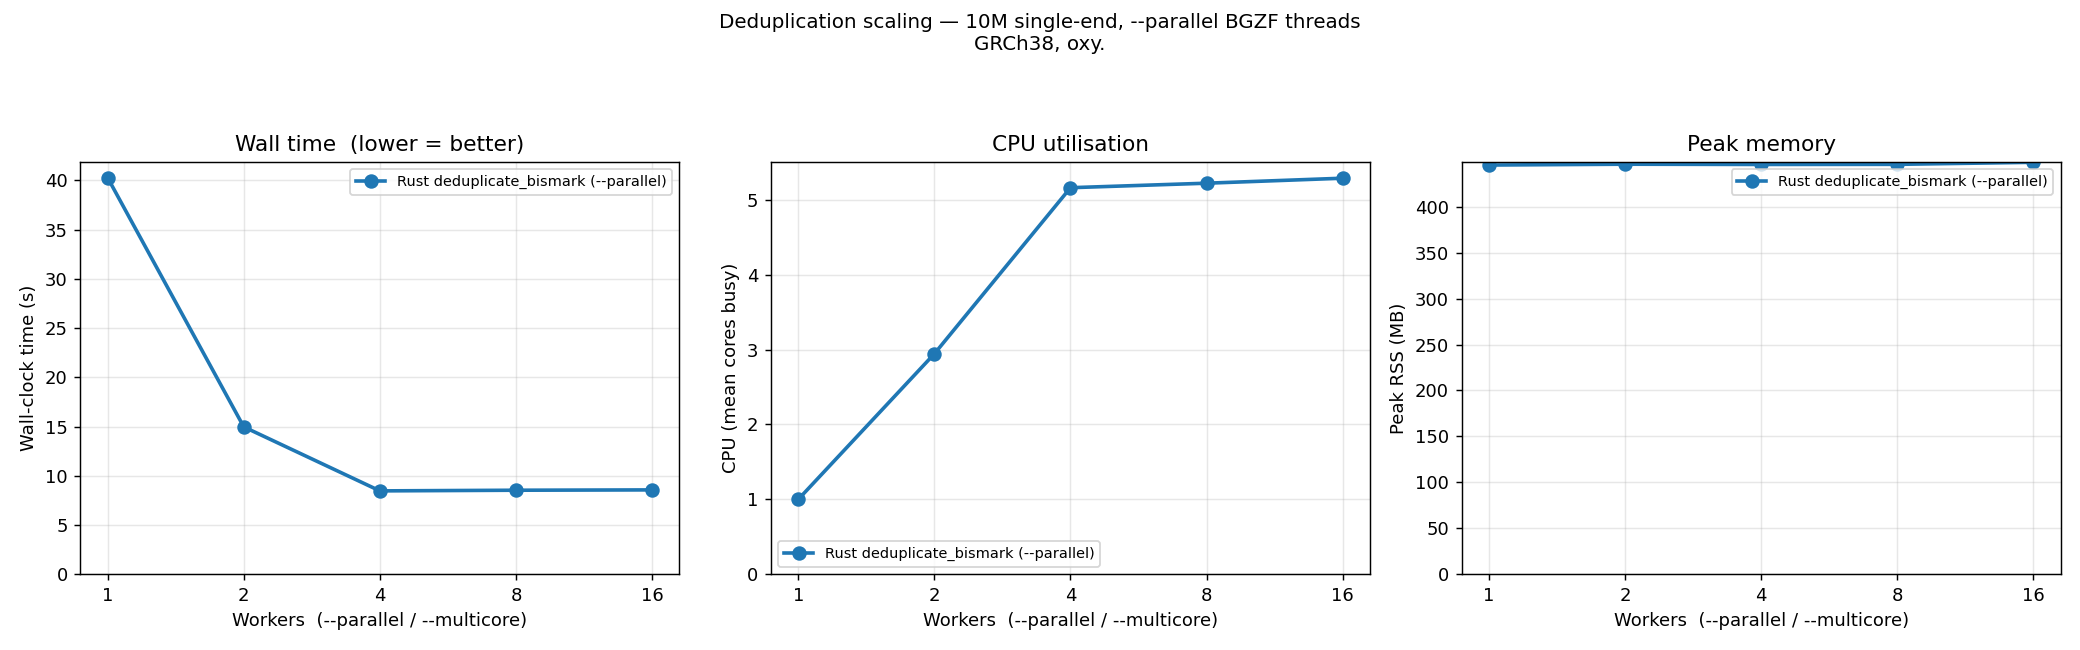
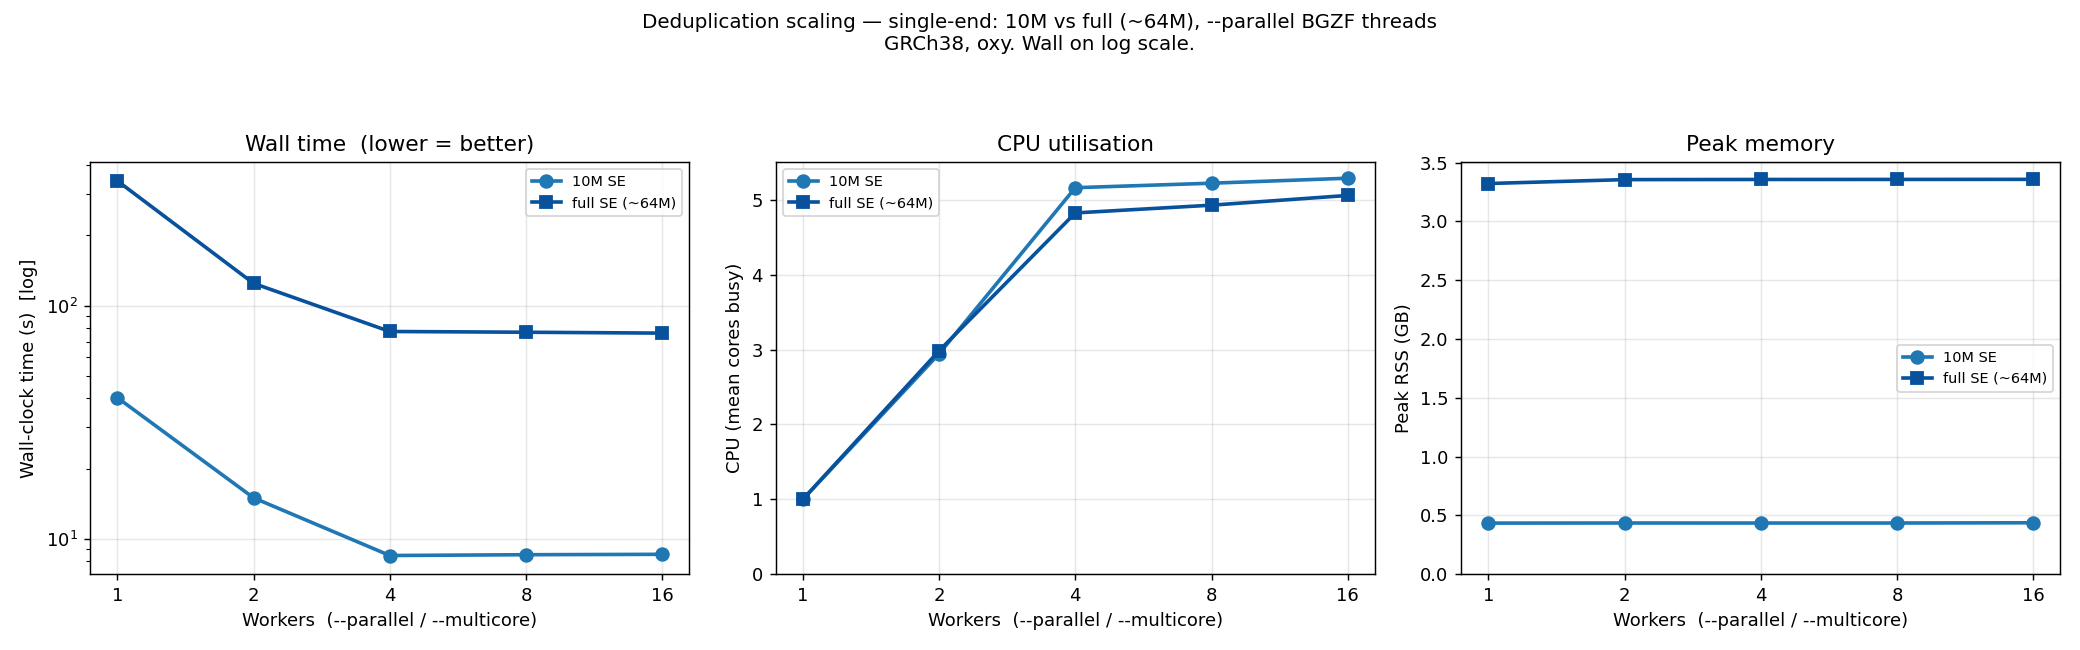
docs(rust): overlay full (~64M) vs 10M on extractor-SE + dedup scaling graphs
Adds the full-SE (~64M) sweeps to the existing 10M extractor-SE and dedup plots
(wall on a log axis for the ~8x scale gap). Shows scale-invariance: extractor
wall stays flat with --parallel and its RAM is read-count-independent; dedup
saturates at ~4 workers at both sizes while its RAM scales with reads (0.45->3.4
GB). Adds the dramatic full-SE figure (Rust default ~80s vs Perl single-core
~33 min = ~25x). Updates 'Further work'.

diff --git a/docs/src/content/docs/rust/benchmarks.md b/docs/src/content/docs/rust/benchmarks.md
@@ -117,30 +117,34 @@ raising `--parallel` barely changes wall time or CPU use; it mainly adds worker 
 stays well under 1 GB. (In uncompressed output mode the picture differs: CPU use is much lower and
 memory grows with worker count.)
 
-The same flat-with-`--parallel` shape holds on single-end and RRBS data. The sweeps below use 10M-read
-subsets (so the wall times are smaller than the full-dataset table above) and overlay Perl:
+The same flat-with-`--parallel` shape holds on single-end and RRBS data, and at full scale. The
+single-end plot overlays a 10M subset with the full (~64M-read) run; the RRBS plot is a 10M subset.
+Both overlay Perl, with wall time on a log axis to fit the range:
 
-![Methylation extractor --parallel scaling, 10M single-end WGBS: wall, CPU and peak memory vs workers, Rust vs Perl](../../../assets/extractor_scaling_se.png)
+![Methylation extractor --parallel scaling, single-end WGBS, 10M vs full ~64M: wall, CPU and peak memory vs workers, Rust vs Perl](../../../assets/extractor_scaling_se.png)
 
 ![Methylation extractor --parallel scaling, 10M paired-end RRBS: wall, CPU and peak memory vs workers, Rust vs Perl](../../../assets/extractor_scaling_rrbs.png)
 
-On the 10M subsets the Rust extractor holds wall time roughly flat at ~10 s (single-end) / ~11 s (RRBS)
-on about 5 cores, with peak memory rising modestly with worker count (~0.25→1.2 GB) as more output
-buffers are held. Perl starts at ~245 s (single-end) / ~330 s (RRBS) single-threaded and reaches ~37 s
-only at ~16 cores — so the Rust default is roughly 25–30× faster than a single-threaded Perl run, and
-still several times faster at matched core counts. Perl is omitted from the memory panel: its gzip
-output goes through a separate process the memory sampler does not attribute to it.
+The Rust extractor holds wall time flat across `--parallel` at **every** scale (~10 s at 10M, ~80 s at
+~64M single-end; ~11 s at 10M RRBS) on about 5 cores, and its peak memory is **independent of read
+count** — the 10M and ~64M single-end curves coincide (~0.25→0.76 GB), because memory is bound by
+per-worker output buffers, not the data. Perl is single-threaded by default: ~245 s at 10M and
+**~1980 s (~33 min) at ~64M** single-end, only catching up by spending far more cores. So the Rust
+default is **~25× faster than a single-threaded Perl run at both scales**, and several times faster at
+matched core counts. Perl is omitted from the memory panels (its gzip output goes through a separate
+process the sampler does not attribute to it).
 
 ## Deduplicator
 
-`deduplicate_bismark --parallel N` sets the number of BGZF compression threads for the output BAM. On a
-10M single-end alignment it scales until output compression stops being the bottleneck:
+`deduplicate_bismark --parallel N` sets the number of BGZF compression threads for the output BAM. It
+scales the same way at 10M and at full scale (~64M single-end):
 
-![Deduplication --parallel scaling, 10M single-end: wall, CPU and peak memory vs workers](../../../assets/dedup_scaling.png)
+![Deduplication --parallel scaling, single-end, 10M vs full ~64M: wall, CPU and peak memory vs workers](../../../assets/dedup_scaling.png)
 
-Wall time falls from ~40 s single-threaded to ~8.4 s at four workers and then flattens — beyond four
-threads the deduplication logic, not compression, is the limit. CPU use rises to about 5 cores and peak
-memory is flat at ~0.45 GB.
+Wall time falls then **flattens at ~4 workers** at both sizes (10M: 40 → 8.4 s; ~64M: 343 → 77 s) —
+more than ~4 BGZF threads do not help, because the single-threaded deduplication logic becomes the
+limit. CPU use rises to about 5 cores. Peak memory is flat across workers but **scales with read
+count** (~0.45 GB at 10M, ~3.4 GB at ~64M), since deduplication holds read positions in memory.
 
 ## rammap (experimental)
 
@@ -188,8 +192,8 @@ Pro, 55.7M paired-end reads, GRCh38):
 
 ## Further work
 
-The parallel-capable tools are now all covered above. A few measurements are deliberately left for
-later: full-scale (~55M-read) timings — the 10M subsets here already capture the scaling shape — and
-rammap on paired-end data, which is single-end only at present.
+The parallel-capable post-alignment tools are now covered at both 10M and full (~64M) scale (above).
+A couple of measurements remain: a full-length aligner core-scaling sweep (single-end and paired-end
+directional), in progress; and rammap on paired-end data, which is single-end only at present.
 
 The methodology and raw logs for the figures here are kept with each tool in the repository.